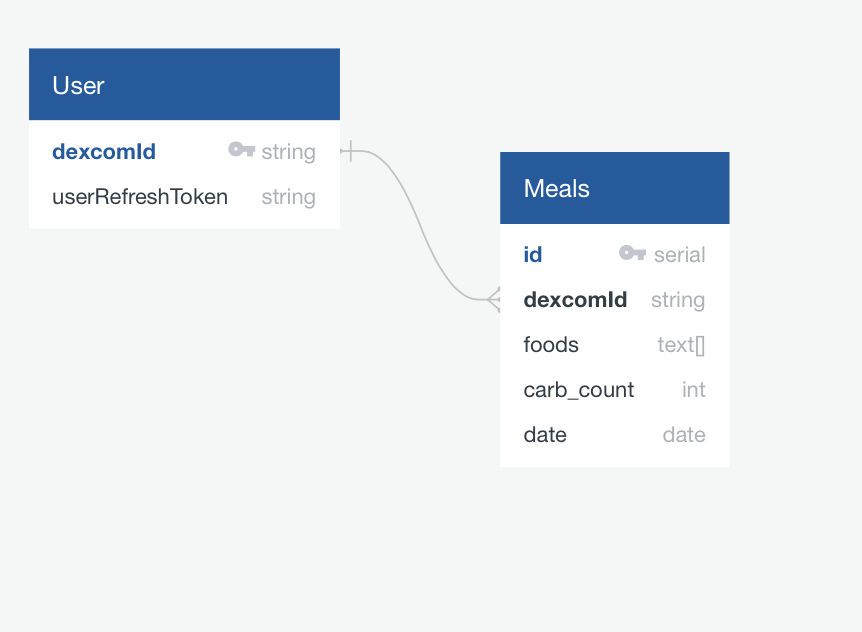
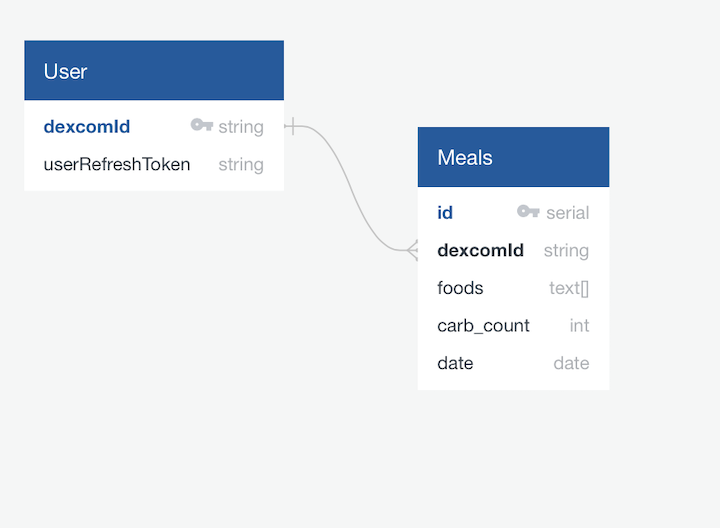
resized readme images

diff --git a/README.md b/README.md
@@ -1,7 +1,7 @@
 # Dexcom with Carb Counting
 
 ![Image of schema](https://github.com/eaquin1/dexcom-project/blob/master/public/img/schema.png)
-![Image of components](https://github.com/eaquin1/dexcom-project/blob/master/public/img/app.jpg)
+![Image of components](https://github.com/eaquin1/dexcom-project/blob/master/public/img/App.jpg)
 [Dexcom API](https://developer.dexcom.com/)
 [Edamam API](https://developer.edamam.com/)
 
